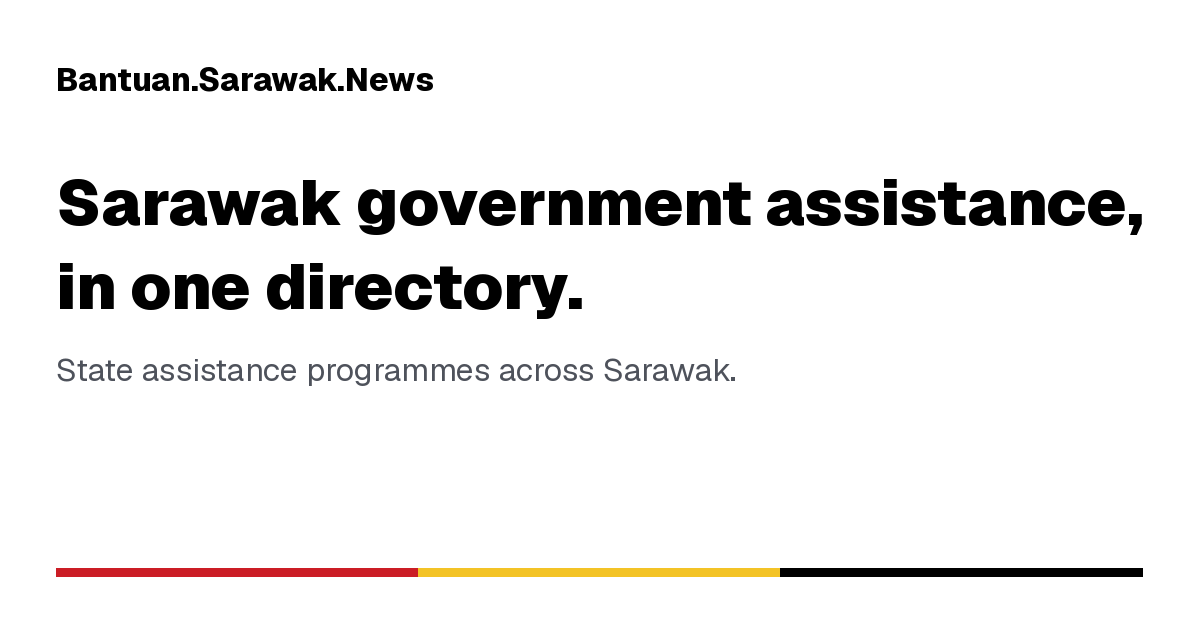
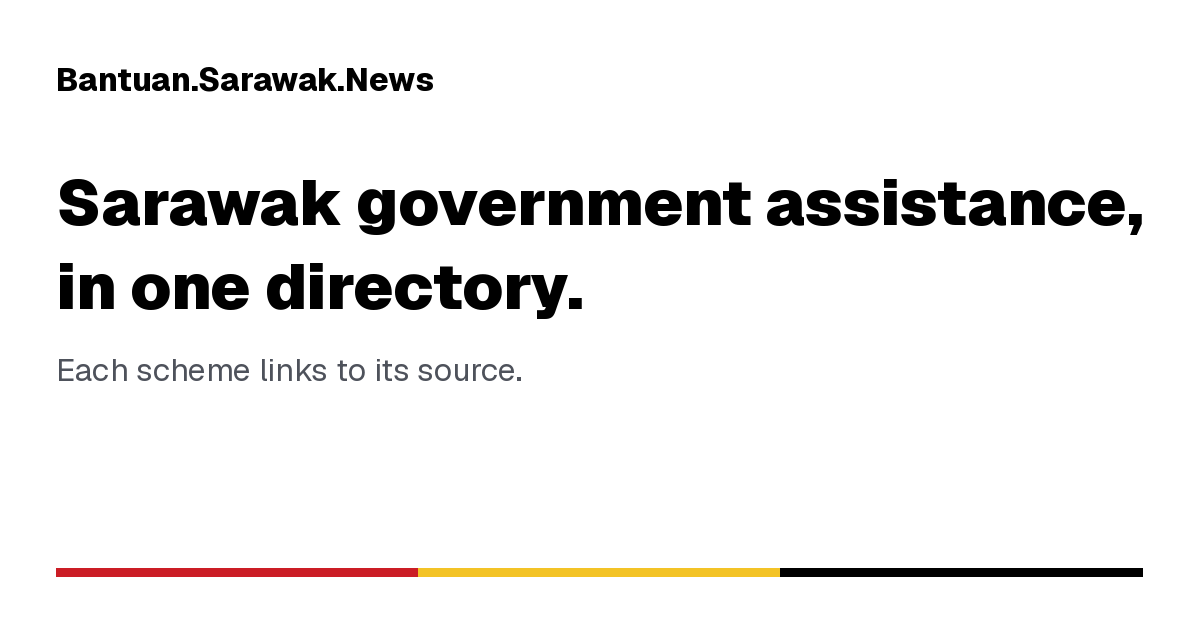
Align social card and OG description: Each scheme links to its source. (#31)
* Align social card and OG description with source subtitle

Set site description meta (og/twitter/name) to the exact share line.
Regenerate social-card.png with the same subtitle baked into the image.

* Use Design Bot social card and Geist render script

Replace the Noto-regenerated OG image with the approved Geist layout and
subtitle. Update render_social_card.py to require Geist (skipped in CI); the
committed PNG remains the source of truth.

* Use approved Design Bot social card PNG and render script

Commit Nazirul-uploaded assets as-is; do not regenerate from old layout.

---------

Changed region(s): [[0.0308, 0.573, 0.6167, 0.6032]]

diff --git a/scripts/render_social_card.py b/scripts/render_social_card.py
@@ -1,5 +1,11 @@
 #!/usr/bin/env python3
-"""Regenerate site/social-card.png. Requires Pillow. The build does not."""
+"""Regenerate site/social-card.png in the approved Design Bot layout.
+
+Matches the live AI.Sarawak.News card: white ground, black site name,
+two-line black headline, one gray subtitle, full-width Sarawak flag bar.
+No left red bar, no short stripe under the name, no date, no URL.
+Requires Pillow and the Geist variable font.
+"""
 
 from __future__ import annotations
 
@@ -12,38 +18,42 @@ except ImportError as error:
 
 ROOT = Path(__file__).resolve().parents[1]
 OUT = ROOT / "site" / "social-card.png"
-REGULAR = "/usr/share/fonts/truetype/noto/NotoSans-Regular.ttf"
-BOLD = "/usr/share/fonts/truetype/noto/NotoSans-Bold.ttf"
+GEIST = "/usr/share/fonts/truetype/sand-box/google/Geist/Geist-VariableFont_wght.ttf"
 
-RED = (210, 38, 48)
-YELLOW = (247, 201, 72)
-BLACK = (17, 17, 17)
-INK = (17, 24, 39)
-MUTED = (107, 114, 128)
+SITE_NAME = "Bantuan.Sarawak.News"
+HEADLINE = ("Sarawak government assistance,", "in one directory.")
+SUBTITLE = "Each scheme links to its source."
+
 WHITE = (255, 255, 255)
+INK = (0, 0, 0)
+GRAY = (78, 82, 91)
+RED = (203, 29, 37)
+YELLOW = (243, 195, 38)
+BLACK = (0, 0, 0)
+
+
+def font(size: int, weight: int) -> ImageFont.FreeTypeFont:
+    face = ImageFont.truetype(GEIST, size)
+    face.set_variation_by_axes([weight])
+    return face
 
 
 def main() -> None:
     image = Image.new("RGB", (1200, 630), WHITE)
     draw = ImageDraw.Draw(image)
-    draw.rectangle((0, 0, 16, 630), fill=RED)
-    bold = ImageFont.truetype(BOLD, 28)
-    title = ImageFont.truetype(BOLD, 72)
-    body = ImageFont.truetype(REGULAR, 28)
-    small = ImageFont.truetype(BOLD, 26)
 
-    draw.text((88, 78), "BANTUAN.SARAWAK.NEWS", font=bold, fill=RED)
-    draw.rectangle((88, 128, 176, 136), fill=RED)
-    draw.rectangle((176, 128, 264, 136), fill=YELLOW)
-    draw.rectangle((264, 128, 352, 136), fill=BLACK)
+    draw.text((56, 58), SITE_NAME, font=font(32, 800), fill=INK)
+    draw.text((56, 160), HEADLINE[0], font=font(64, 900), fill=INK)
+    draw.text((56, 244), HEADLINE[1], font=font(64, 900), fill=INK)
+    draw.text((56, 348), SUBTITLE, font=font(32, 400), fill=GRAY)
 
-    y = 196
-    for line in ("Sarawak government", "assistance, in one", "directory."):
-        draw.text((88, y), line, font=title, fill=INK)
-        y += 84
+    x0, x1, y0, y1 = 56, 1142, 568, 576
+    seg = (x1 - x0) // 3
+    draw.rectangle((x0, y0, x0 + seg, y1), fill=RED)
+    draw.rectangle((x0 + seg, y0, x0 + 2 * seg, y1), fill=YELLOW)
+    draw.rectangle((x0 + 2 * seg, y0, x1, y1), fill=BLACK)
 
-    draw.text((88, 500), "State schemes  ·  Checked 4 October 2026", font=body, fill=MUTED)
-    draw.text((88, 556), "bantuan.sarawak.news", font=small, fill=BLACK)
+    OUT.parent.mkdir(parents=True, exist_ok=True)
     image.save(OUT, "PNG")
     print(f"Wrote {OUT}")
 

diff --git a/README.md b/README.md
@@ -44,7 +44,7 @@ python3 -m unittest discover -s tests -v
 - `site/style.css` and `site/app.js` — visual design, dark mode and the menu
 - `site/social-card.png` — Open Graph image, 1200×630
 
-`scripts/render_social_card.py` can redraw the card when Pillow and Noto Sans are installed. The site build only copies the PNG.
+`scripts/render_social_card.py` can redraw the card when Pillow and Geist are installed. The site build only copies the PNG.
 
 ## GitHub Pages
 
